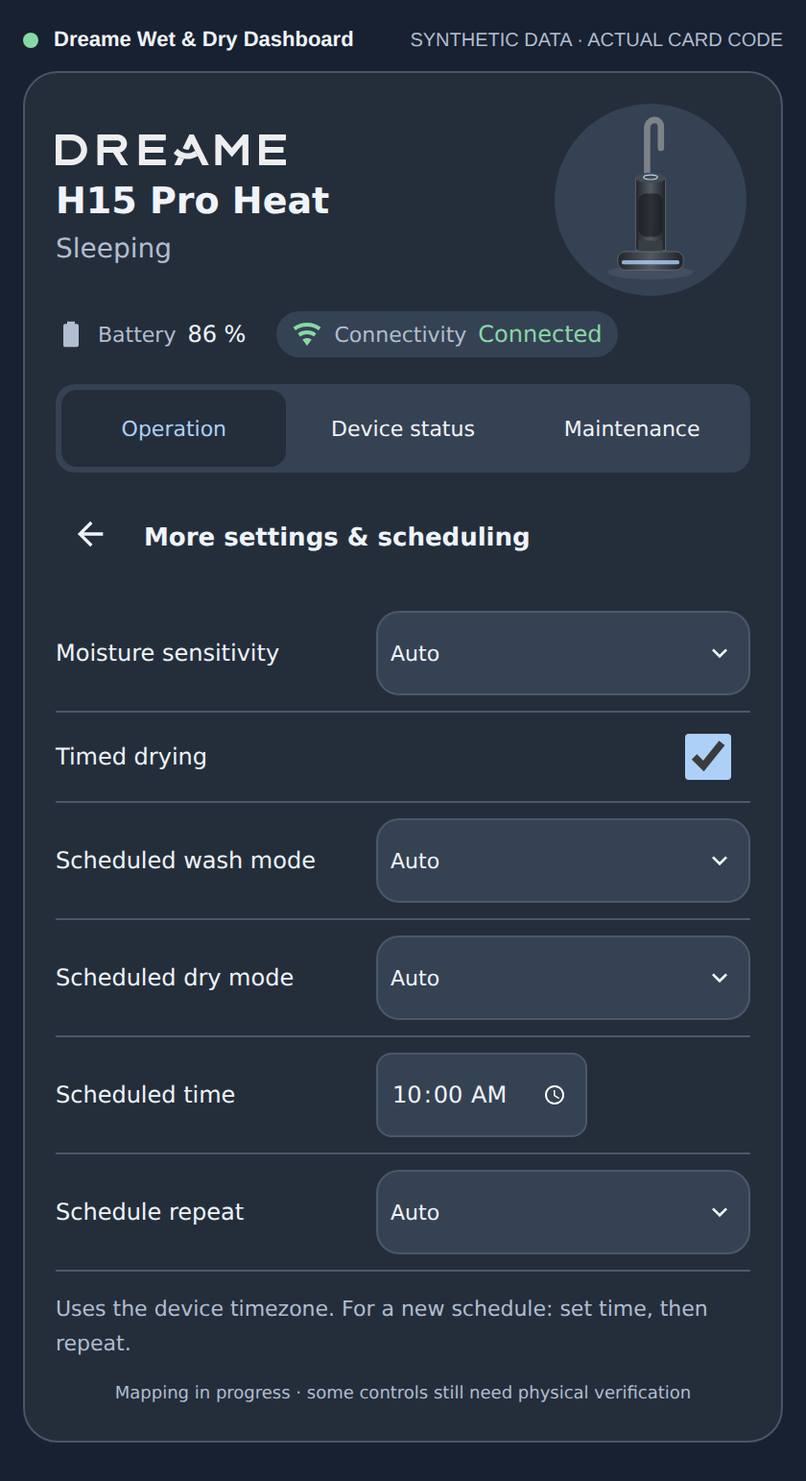
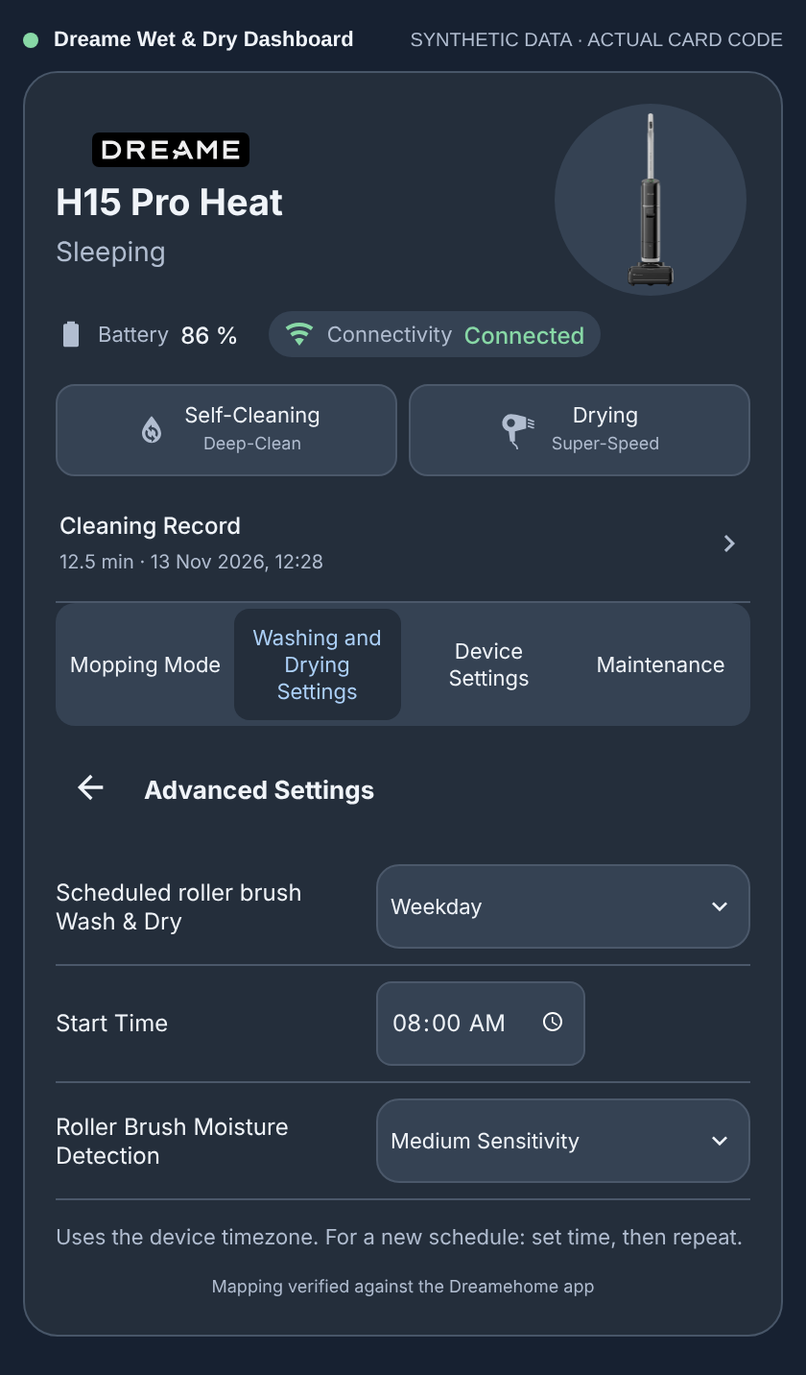
v1.1.0: H15 tabs and names match the Dreamehome app
- Tabs: Mopping Mode, Washing and Drying Settings, Device Settings, Maintenance
- Self-Cleaning/Drying buttons and Cleaning Record above the tabs (app main screen)
- Labels and options from the Dreamehome w2449e plugin strings (en/he)
- Cleaning Record page and Firmware Upgrade row
- Fix schedule Start Time unit (seconds) and voice volume levels (0/30/60)
- Re-render README gallery

Claude-Session: https://claude.ai/code/session_012MEnnaMZZDVA9ScWyo1GUo

diff --git a/dist/dreame-device-card.js b/dist/dreame-device-card.js
@@ -41,6 +41,9 @@ const ROLES = {
   stop_clean: ["button", "h15_command_stop_self_clean"], start_dry: ["button", "h15_command_start_self_dry"],
   stop_dry: ["button", "h15_command_stop_self_dry"], reset_filter: ["button", "h15_command_reset_filter"],
   reset_brush: ["button", "h15_command_reset_front_brush"],
+  clean_today: ["sensor", "h15_clean_time_today"], clean_week: ["sensor", "h15_clean_time_week"],
+  clean_sessions: ["sensor", "h15_clean_sessions_week"], last_clean: ["sensor", "h15_last_session"],
+  firmware: ["update", "h15_firmware"],
 };
 const TEXT = {
   he: {
@@ -50,7 +53,7 @@ const TEXT = {
     hot_water: "חימום מים", wash_mode: "מצב ניקוי עצמי", dry_mode: "מצב ייבוש", volume: "עוצמת קול",
     silent: "שקט", low: "נמוך", high: "גבוה", custom: "ניקוי מותאם אישית", auto_wash: "ניקוי וייבוש בחזרה למעמד",
     auto_dry: "ייבוש מברשת אוטומטי", smart_dry: "ייבוש חכם", protection: "הגנה מפני לחות", timed_dry: "ייבוש מתוזמן",
-    traction: "הנעה", detergent: "ערבוב חומר ניקוי", moisture: "רגישות לחות", arm: "מצבי הזרוע", language: "שפת קול",
+    traction: "הנעה", detergent: "יחס חומר ניקוי", moisture: "רגישות לחות", arm: "מצבי הזרוע", language: "שפת קול",
     temperature: "טמפרטורת ברירת מחדל", return_wash: "ניקוי בחזרה למעמד", return_dry: "ייבוש בחזרה למעמד",
     scheduled_wash: "ניקוי מתוזמן", scheduled_dry: "ייבוש מתוזמן", repeat: "חזרה על תזמון", schedule_time: "שעת תזמון",
     start_clean: "ניקוי עצמי", resume_clean: "המשך ניקוי", stop_clean: "עצירת ניקוי", start_dry: "הפעלת ייבוש", stop_dry: "עצירת ייבוש",
@@ -62,7 +65,10 @@ const TEXT = {
     alert_unknown: "חלק מחיוויי ההתראות אינם זמינים; אין להסיק שהמכשיר ללא תקלות.",
     remaining: "נותרו", reset_confirm: "לאפס את מונה התחזוקה במכשיר? יש לאשר רק אחרי החלפה או תחזוקה לפי הוראות היצרן.",
     cancel: "ביטול", confirm: "אישור איפוס", waiting: "הפקודה נשלחה; ממתינים לדיווח המכשיר.",
-    wip: "מיפוי בפיתוח · חלק מהאפשרויות עדיין דורשות אימות במכשיר", empty: "אין נתונים זמינים להצגה בקבוצה זו.",
+    wip: "המיפוי אומת מול אפליקציית Dreamehome",
+    tab_home: "בית", tab_cleaning: "ניקוי", tab_device: "מכשיר", tab_record: "היסטוריה", tab_accessories: "אביזרים",
+    sec_mode: "מצב ניקוי", dirt_level: "רמת לכלוך היום", dirt_light: "קל", dirt_moderate: "בינוני", dirt_heavy: "כבד",
+    cleaning_record: "היסטוריית ניקוי", clean_today: "זמן ניקוי היום", clean_week: "זמן ניקוי (7 ימים)", clean_sessions: "ניקויים (7 ימים)", last_clean: "ניקוי אחרון", firmware: "קושחה", update_available: "עדכון זמין", empty: "אין נתונים זמינים להצגה בקבוצה זו.",
     setup: "לא נמצא מכשיר יחיד התואם לסוג שנבחר. יש להגדיר device_id או entity בכרטיס.",
     registry_error: "אין גישה לרשימת הישויות. אפשר להגדיר entities ידנית או לנסות שוב.", retry: "נסה שוב",
     offline: "המכשיר אינו מדווח כמחובר; פקדי התפעול מושבתים.", loading: "טוען את המכשיר…", error: "הפעולה נכשלה",
@@ -89,7 +95,7 @@ const TEXT = {
     hot_water: "Hot water", wash_mode: "Self-cleaning mode", dry_mode: "Drying mode", volume: "Voice volume",
     silent: "Silent", low: "Low", high: "High", custom: "Personalized cleaning", auto_wash: "Wash & dry on return",
     auto_dry: "Auto roller drying", smart_dry: "Smart drying", protection: "Moisture protection", timed_dry: "Timed drying",
-    traction: "Traction", detergent: "Detergent mixing", moisture: "Moisture sensitivity", arm: "Lifting arm modes", language: "Voice language",
+    traction: "Traction", detergent: "Cleaning solution ratio", moisture: "Moisture sensitivity", arm: "Lifting arm modes", language: "Voice language",
     temperature: "Default temperature", return_wash: "Return wash mode", return_dry: "Return dry mode",
     scheduled_wash: "Scheduled wash mode", scheduled_dry: "Scheduled dry mode", repeat: "Schedule repeat", schedule_time: "Scheduled time",
     start_clean: "Self-clean", resume_clean: "Resume cleaning", stop_clean: "Stop cleaning", start_dry: "Start drying", stop_dry: "Stop drying",
@@ -101,7 +107,10 @@ const TEXT = {
     alert_unknown: "Some alert states are unavailable; this does not prove the device is fault-free.",
     remaining: "remaining", reset_confirm: "Reset this maintenance counter on the device? Confirm only after replacement or manufacturer-recommended maintenance.",
     cancel: "Cancel", confirm: "Confirm reset", waiting: "Command sent; waiting for device telemetry.",
-    wip: "Mapping in progress · some controls still need physical verification", empty: "No data available for this section.",
+    wip: "Mapping verified against the Dreamehome app",
+    tab_home: "Home", tab_cleaning: "Cleaning", tab_device: "Device", tab_record: "Record", tab_accessories: "Accessories",
+    sec_mode: "Cleaning mode", dirt_level: "Dirt level today", dirt_light: "Light", dirt_moderate: "Moderate", dirt_heavy: "Heavy",
+    cleaning_record: "Cleaning record", clean_today: "Cleaning time today", clean_week: "Cleaning time (7 days)", clean_sessions: "Sessions (7 days)", last_clean: "Last cleaning", firmware: "Firmware", update_available: "update available", empty: "No data available for this section.",
     setup: "No single H15 found. Set device_id or entity in this card.",
     registry_error: "Cannot access the entity registry. Configure entities manually or retry.", retry: "Retry",
     offline: "Device is not reporting online; operation controls are disabled.", loading: "Loading device…", error: "Action failed",
@@ -121,6 +130,53 @@ const TEXT = {
     maintenance_required: "Maintenance required — clean or replace", maintenance_counter_ok: "Remaining life above maintenance threshold",
     maintenance_percent_unknown: "No verified remaining percentage", maintenance_hours_unknown: "Percentage unavailable; showing time reported by the device", maintenance_due: "Maintenance required",
   },
+};
+
+// Names below are copied from the Dreamehome w2449e plugin string tables (en/he)
+// so the card reads exactly like the app.
+Object.assign(TEXT.en, {
+  tab_mop: "Mopping Mode", tab_washdry: "Washing and Drying Settings", tab_devset: "Device Settings",
+  custom: "Custom Mode", customize: "Customize Settings", mode: "Customize Settings", suction: "Suction Setting", water: "Water Level",
+  hot_water: "Hot Water Temperature", temperature: "Set Hot Water Mode",
+  auto_dry: "Auto Roller Brush Drying", smart_dry: "Smart Drying", wash_dry_mode: "Set Wash & Dry Mode",
+  wash_mode: "Self-Cleaning Settings", dry_mode: "Drying Settings", auto_wash: "Return to Automatic Wash & Dry",
+  protection: "Smart Moisture Protection", advanced: "Advanced Settings", repeat: "Scheduled roller brush Wash & Dry",
+  schedule_time: "Start Time", moisture: "Roller Brush Moisture Detection",
+  voice_settings: "Voice Assistant and Volume Settings", language: "Voice Assistant", volume: "Adjust volume",
+  traction: "GlideWheel Traction Settings", arm: "Lifting Robotic Arm Settings", detergent: "Cleaning Solution Ratio Settings",
+  firmware: "Firmware Upgrade", cleaning_record: "Cleaning Record",
+  start_clean: "Self-Cleaning", stop_clean: "End Self-Cleaning", resume_clean: "Continue Self-Cleaning",
+  start_dry: "Drying", stop_dry: "End Drying",
+  arm_smart: "Smart Mode", arm_hot: "Hot Water Mode", arm_suction: "Suction Mode", arm_custom: "Custom Mode",
+});
+Object.assign(TEXT.he, {
+  tab_mop: "מצב ניגוב", tab_washdry: "הגדרות שטיפה וייבוש", tab_devset: "הגדרות המכשיר",
+  custom: "מצב התאמה אישית", customize: "הגדרות מותאמות אישית", mode: "הגדרות מותאמות אישית", suction: "עוצמת שאיבה", water: "רמת המים",
+  hot_water: "טמפרטורת המים החמים", temperature: "הגדרת מצב מים חמים",
+  auto_dry: "ייבוש עצמי אוטומטי של המברשת", smart_dry: "ייבוש חכם", wash_dry_mode: "מצב שטיפה עצמית וייבוש",
+  wash_mode: "הגדרות לניקוי עצמי", dry_mode: "הגדרות ייבוש", auto_wash: "החזרה לשטיפה ולייבוש אוטומטיים",
+  protection: "הגנת לחות חכמה", advanced: "הגדרות מתקדמות", repeat: "מברשת רולר יבשה לשטיפה מתוזמנת",
+  schedule_time: "זמן התחלה", moisture: "זיהוי לחות במברשת הגלגלית",
+  voice_settings: "הנחיה קולית ועוצמת קול", language: "הנחיה קולית", volume: "התאמת עוצמת הקול",
+  traction: "התאמת כוח הנעה עצמית", arm: "מתג זרוע רובוטית להרמה", detergent: "הגדרות יחס תמיסת הניקוי",
+  firmware: "שדרוג הקושחה", cleaning_record: "היסטוריית הניקיון",
+  start_clean: "ניקוי עצמי", stop_clean: "ניקוי עצמי הסתיים", resume_clean: "מתליל מחדש ניקוי עצמי",
+  start_dry: "ייבוש", stop_dry: "הייבוש הסתיים",
+  arm_smart: "מצב חכם", arm_hot: "מצב מים חמים", arm_suction: "מצב יניקה", arm_custom: "מצב התאמה אישית",
+});
+const OPTION_HE = {
+  mode: { "Quiet Mode": "מצב שקט", "Turbo Mode": "מצב טורבו", "Personalized Mode": "מצב מותאם אישית" },
+  suction: { Gentle: "חלשה", Standard: "רגיל", Strong: "גבוהה" },
+  water: { Standard: "רגיל", High: "רטובה", "Slightly dry": "יבשה מעט" },
+  hot_water: { Off: "כבוי", Mild: "עדין", Standard: "רגיל", Thermal: "תרמי" },
+  temperature: { Mild: "עדין", Standard: "רגיל", Thermal: "תרמי" },
+  wash_mode: { "Auto-Adjust": "התאמה אוטומטית", Standard: "רגיל", "Deep-Clean": "ניקוי עמוק" },
+  dry_mode: { "Super-Speed": "מהירות סופר-גבוהה", "High-Speed": "מהירות גבוהה" },
+  traction: { Gentle: "עדין", Balanced: "מתון", Turbo: "טורבו" },
+  moisture: { "Low Sensitivity": "רגישות נמוכה", "Medium Sensitivity": "רגישות בינונית", "High Sensitivity": "רגישות גבוהה" },
+  repeat: { None: "ללא", Once: "פעם אחת", "Whole Week": "שבוע שלם", Weekday: "ימי עבודה", Weekends: "ימי מנוחה" },
+  detergent: { "Smart Mode": "פרופורציות חכמות", "Powerful stain removal": "מסיר כתמים עוצמתי" },
+  language: { English: "אנגלית", German: "גרמנית", French: "צרפתית", Italian: "איטלקית", Spanish: "ספרדית", Dutch: "הולנדית", Portuguese: "פורטוגזית" },
 };
 
 const H14_ROLES = {
@@ -228,7 +284,7 @@ function serviceFor(role, state, value, roles = ROLES) {
     const { min, max, step } = state.attributes;
     if (!Number.isFinite(number) || !Number.isFinite(min) || !Number.isFinite(max) || !(step > 0) ||
       number < min || number > max || Math.abs((number - min) / step - Math.round((number - min) / step)) > 1e-6 ||
-      (role === "volume" && roles === ROLES && ![0, 1, 2].includes(number))) throw new Error("Unsupported number value");
+      (role === "volume" && roles === ROLES && ![0, 30, 60].includes(number))) throw new Error("Unsupported number value");
     return [domain, "set_value", { value: number }];
   }
   throw new Error("Read-only entity");
@@ -250,7 +306,7 @@ class DreameDeviceCard extends HTMLElement {
   constructor() {
     super();
     this.attachShadow({ mode: "open" });
-    this._tab = "operation";
+    this._tab = "mop";
     this._roles = {};
     this._entries = [];
     this._alerts = [];
@@ -336,6 +392,7 @@ class DreameDeviceCard extends HTMLElement {
   static getStubConfig() { return { title: "Dreame H15 Pro Heat" }; }
   static getConfigElement() { return document.createElement("dreame-device-card-editor"); }
   _t(key) { return TEXT[this._language][key] || key; }
+  _opt(role, option) { return (this._language === "he" && OPTION_HE[role]?.[option]) || option; }
   get _language() { return this._config?.language || (this._hass?.language?.startsWith("he") ? "he" : "en"); }
   get _direction() { return this._language === "he" ? "rtl" : "ltr"; }
   _navIcon(back = false) {
@@ -374,7 +431,7 @@ class DreameDeviceCard extends HTMLElement {
   _contextReady(role) {
     if (this._profile !== "H15") return true;
     if (["mode", "suction", "water", "hot_water"].includes(role) && this._state("custom")?.state !== "on") return false;
-    if (["suction", "water"].includes(role) && this._state("mode")?.attributes.raw_value !== 4 && this._state("mode")?.state !== "Personalized") return false;
+    if (["suction", "water"].includes(role) && this._state("mode")?.attributes.raw_value !== 4 && !["Personalized", "Personalized Mode"].includes(this._state("mode")?.state)) return false;
     if (role === "suction" && this._state("hot_water")?.attributes.raw_value !== 0 && this._state("hot_water")?.state !== "Off") return false;
     return true;
   }
@@ -417,6 +474,8 @@ class DreameDeviceCard extends HTMLElement {
     if (!state || BAD_STATES.has(state.state)) return this._t(state?.state === "unavailable" ? "unavailable" : "unknown");
     if (role === "online") return this._t(state.state === "on" ? "connected" : state.state === "off" ? "disconnected" : "unknown");
     if (role === "charging") return this._t(state.state === "on" ? "yes" : "no");
+    if (this._roleMap?.[role]?.[0] === "select") return this._opt(role, state.state);
+    if (role === "firmware") return `${state.attributes.installed_version || ""}${state.state === "on" ? ` · ${this._t("update_available")} ${state.attributes.latest_version || ""}` : ""}`;
     if (this._hass.formatEntityState) return this._hass.formatEntityState(state);
     return `${state.state}${state.attributes.unit_of_measurement ? ` ${state.attributes.unit_of_measurement}` : ""}`;
   }
@@ -435,7 +494,7 @@ class DreameDeviceCard extends HTMLElement {
   }
   _control(role) {
     if (!this._roles[role] || !this._state(role) || !this._roleMap[role]) return "";
-    if (this._profile === "H15" && ["suction", "water"].includes(role) && this._state("mode")?.state !== "Personalized" && this._state("mode")?.attributes.raw_value !== 4) return "";
+    if (this._profile === "H15" && ["suction", "water"].includes(role) && !["Personalized", "Personalized Mode"].includes(this._state("mode")?.state) && this._state("mode")?.attributes.raw_value !== 4) return "";
     const state = this._state(role);
     const disabled = this._ready(role) ? "" : "disabled";
     let input = "";
@@ -447,13 +506,14 @@ class DreameDeviceCard extends HTMLElement {
       input = `<input aria-label="${label}" type="checkbox" role="switch" data-role="${role}" ${state.state === "on" ? "checked" : ""} ${disabled}>`;
       if (BAD_STATES.has(state.state)) input += `<small>${escapeHTML(this._value(role))}</small>`;
     } else if (role === "volume" && this._profile === "H15") {
-      const known = !BAD_STATES.has(state.state) && [0, 1, 2].includes(Number(state.state));
+      const level = [0, 30, 60].indexOf(Number(state.state));
+      const known = !BAD_STATES.has(state.state) && level >= 0;
       const levels = [this._t("silent"), this._t("low"), this._t("high")];
-      input = `<div class="volume" dir="${this._direction}"><input dir="${this._direction}" aria-label="${label}" aria-valuetext="${escapeHTML(known ? levels[Number(state.state)] : this._t("unknown"))}" type="range" min="0" max="2" step="1" data-role="volume" value="${known ? Number(state.state) : 0}" ${known ? disabled : "disabled"}>
-        <div class="levels">${levels.map((l, i) => `<span class="${known && Number(state.state) === i ? "selected" : ""}">${l}</span>`).join("")}</div>${known ? "" : `<small>${escapeHTML(this._value(role))}</small>`}</div>`;
+      input = `<div class="volume" dir="${this._direction}"><input dir="${this._direction}" aria-label="${label}" aria-valuetext="${escapeHTML(known ? levels[level] : this._t("unknown"))}" type="range" min="0" max="2" step="1" data-role="volume" value="${known ? level : 0}" ${known ? disabled : "disabled"}>
+        <div class="levels">${levels.map((l, i) => `<span class="${known && level === i ? "selected" : ""}">${l}</span>`).join("")}</div>${known ? "" : `<small>${escapeHTML(this._value(role))}</small>`}</div>`;
     } else if (role === "schedule_time") {
       const raw = Number(state.state);
-      const time = !BAD_STATES.has(state.state) && Number.isInteger(raw) && raw >= 0 && raw < 1440 ? `${String(Math.floor(raw / 60)).padStart(2, "0")}:${String(raw % 60).padStart(2, "0")}` : "";
+      const time = !BAD_STATES.has(state.state) && Number.isInteger(raw) && raw >= 0 && raw < 86400 ? `${String(Math.floor(raw / 3600)).padStart(2, "0")}:${String(Math.floor(raw / 60) % 60).padStart(2, "0")}` : "";
       input = `<input aria-label="${label}" type="time" step="60" data-role="${role}" value="${time}" ${disabled}>`;
     }
     if (!input && this._roleMap[role][0] === "number") {
@@ -569,29 +629,49 @@ class DreameDeviceCard extends HTMLElement {
     if (!due.length) return "";
     return `<button class="maintenance-notice" data-tab="maintenance"><ha-icon icon="mdi:tools"></ha-icon><span>${this._t("maintenance_due")} — ${due.map((r) => this._t(r)).join(" · ")}</span><ha-icon icon="${this._navIcon()}"></ha-icon></button>`;
   }
+  _home() {
+    const active = ["clean_progress", "dry_progress"].filter((r) => { const v = Number(this._state(r)?.state); return Number.isFinite(v) && v > 0; });
+    const record = ["clean_today", "clean_week", "clean_sessions", "last_clean"].some((r) => this._roles[r]);
+    return `<div class="actions">${this._button("start_clean", "mdi:water-sync")}${this._button("resume_clean", "mdi:play")}${this._button("stop_clean", "mdi:stop")}${this._button("start_dry", "mdi:hair-dryer")}${this._button("stop_dry", "mdi:stop")}</div>
+      ${active.length ? `<div class="metrics">${active.map((r) => this._metric(r, r === "clean_progress" ? "mdi:water-sync" : "mdi:hair-dryer")).join("")}</div>` : ""}
+      ${record ? `<button class="setting-group" data-group="record"><div><strong>${this._t("cleaning_record")}</strong><small>${escapeHTML(this._value("clean_today"))} · ${escapeHTML(this._value("last_clean"))}</small></div><ha-icon icon="${this._navIcon()}"></ha-icon></button>` : ""}`;
+  }
   _panel() {
-    if (this._tab === "operation") {
-      if (this._choice) {
-        const options = this._state(this._choice)?.attributes.options || [];
-        return `<div class="subheading"><button data-back aria-label="${this._t("back")}"><ha-icon icon="${this._navIcon(true)}"></ha-icon></button><strong>${escapeHTML(this._t(this._choice))}</strong></div>
-          <div class="choice-list">${options.map((option) => `<button data-option="${escapeHTML(option)}" aria-pressed="${option === this._draftOption}" ${this._ready(this._choice) ? "" : "disabled"}><span>${escapeHTML(option)}</span><ha-icon icon="${option === this._draftOption ? "mdi:check-circle" : "mdi:circle-outline"}"></ha-icon></button>`).join("")}</div>
-          <button class="save-choice" data-save-option ${this._ready(this._choice) && options.includes(this._draftOption) ? "" : "disabled"}>${this._t("save")}</button>`;
-      }
-      const groups = {
-        cleaning_settings: ["mode", "suction", "water", "hot_water", "detergent", "temperature"],
-        wash_settings: ["wash_mode", "dry_mode", "auto_dry", "smart_dry", "auto_wash", "return_wash", "return_dry", "protection"],
-        device_settings: ["traction", "arm", "arm_smart", "arm_hot", "arm_suction", "arm_custom", "volume", "language"],
-        advanced: ["moisture", "timed_dry", "scheduled_wash", "scheduled_dry", "schedule_time", "repeat"],
-      };
-      if (groups[this._settings]) {
-        const controls = groups[this._settings].map((role) => this._control(role)).join("");
-        return `<div class="subheading"><button data-back aria-label="${this._t("back")}"><ha-icon icon="${this._navIcon(true)}"></ha-icon></button><strong>${this._t(this._settings)}</strong></div>${controls || `<p class="muted">${this._t("empty")}</p>`}${this._settings === "advanced" ? `<p class="muted">${this._t("schedule_note")}</p>` : ""}`;
-      }
-      const row = (group, subtitle) => groups[group].some((r) => this._roles[r]) ? `<button class="setting-group" data-group="${group}"><div><strong>${this._t(group)}</strong><small>${escapeHTML(subtitle)}</small></div><ha-icon icon="${this._navIcon()}"></ha-icon></button>` : "";
-      return `<div class="actions">${this._button("start_clean", "mdi:water-sync")}${this._button("resume_clean", "mdi:play")}${this._button("stop_clean", "mdi:stop")}${this._button("start_dry", "mdi:hair-dryer")}${this._button("stop_dry", "mdi:stop")}</div>
-        ${this._control("custom")}${row("cleaning_settings", this._value("mode"))}${row("wash_settings", ["wash_mode", "dry_mode"].filter((r) => this._roles[r]).map((r) => this._value(r)).join(" · "))}${row("device_settings", `${this._t("traction")} · ${this._t("arm")} · ${this._t("volume")}`)}${row("advanced", this._t("schedule_note"))}`;
+    const back = (title) => `<div class="subheading"><button data-back aria-label="${this._t("back")}"><ha-icon icon="${this._navIcon(true)}"></ha-icon></button><strong>${escapeHTML(title)}</strong></div>`;
+    if (this._choice) {
+      const options = this._state(this._choice)?.attributes.options || [];
+      return `${back(this._t(this._choice))}
+        <div class="choice-list">${options.map((option) => `<button data-option="${escapeHTML(option)}" aria-pressed="${option === this._draftOption}" ${this._ready(this._choice) ? "" : "disabled"}><span>${escapeHTML(this._opt(this._choice, option))}</span><ha-icon icon="${option === this._draftOption ? "mdi:check-circle" : "mdi:circle-outline"}"></ha-icon></button>`).join("")}</div>
+        <button class="save-choice" data-save-option ${this._ready(this._choice) && options.includes(this._draftOption) ? "" : "disabled"}>${this._t("save")}</button>`;
     }
-    if (this._tab === "status") return `<div class="metrics">${this._metric("work", "mdi:state-machine")}${this._metric("charging", "mdi:battery-charging")}${this._metric("clean_progress", "mdi:water-sync")}${this._metric("dry_progress", "mdi:hair-dryer")}${this._metric("clean_count", "mdi:counter")}${this._metric("runtime", "mdi:timer-outline")}</div><h3>${this._t("alerts")}</h3>${this._alertList()}`;
+    const controls = (roles) => roles.map((role) => this._control(role)).join("");
+    const metrics = (items) => { const body = items.map(([role, icon]) => this._metric(role, icon)).join(""); return body ? `<div class="metrics">${body}</div>` : ""; };
+    const group = (key, roles, subtitle) => roles.some((r) => this._roles[r]) ? `<button class="setting-group" data-group="${key}"><div><strong>${this._t(key)}</strong><small>${escapeHTML(subtitle)}</small></div><ha-icon icon="${this._navIcon()}"></ha-icon></button>` : "";
+    const sub = {
+      customize: ["mode", "suction", "water", "hot_water"],
+      wash_dry_mode: ["wash_mode", "dry_mode"],
+      advanced: ["repeat", "schedule_time", "moisture"],
+      voice_settings: ["language", "volume"],
+    };
+    if (this._settings === "record") {
+      const dirt = this._state("clean_today");
+      const split = dirt && !BAD_STATES.has(dirt.state) ? ["light", "moderate", "heavy"].map((lvl) => `${this._t("dirt_" + lvl)} ${dirt.attributes[lvl + "_dirt_percent"] ?? 0}%`).join(" · ") : "";
+      return `${back(this._t("cleaning_record"))}${metrics([["clean_today", "mdi:timer-outline"], ["clean_week", "mdi:calendar-week"], ["clean_sessions", "mdi:counter"], ["last_clean", "mdi:history"], ["clean_count", "mdi:counter"]])}${split ? `<h3>${this._t("dirt_level")}</h3><p class="muted">${escapeHTML(split)}</p>` : ""}`;
+    }
+    if (sub[this._settings]) {
+      const body = controls(sub[this._settings]);
+      return `${back(this._t(this._settings))}${body || `<p class="muted">${this._t("empty")}</p>`}${this._settings === "advanced" ? `<p class="muted">${this._t("schedule_note")}</p>` : ""}`;
+    }
+    if (this._tab === "mop") {
+      const custom = this._state("custom")?.state === "on";
+      return `${controls(["custom"])}${group("customize", sub.customize, custom ? this._value("mode") : "")}${controls(["temperature"])}` || `<p class="muted">${this._t("empty")}</p>`;
+    }
+    if (this._tab === "washdry") {
+      return `${controls(["auto_dry", "smart_dry"])}${group("wash_dry_mode", sub.wash_dry_mode, ["wash_mode", "dry_mode"].filter((r) => this._roles[r]).map((r) => this._value(r)).join(" · "))}${controls(["auto_wash", "protection", ...(this._profile === "H14" ? ["timed_dry"] : [])])}${group("advanced", sub.advanced, this._value("repeat"))}`;
+    }
+    if (this._tab === "devset") {
+      return `${group("voice_settings", sub.voice_settings, this._value("language"))}${controls(["traction", "arm", "arm_smart", "arm_hot", "arm_suction", "arm_custom"])}${metrics([["firmware", "mdi:chip"]])}`;
+    }
     return `<h3>${this._t("tanks")}</h3>${this._tank("clean")}${this._tank("dirty")}${this._consumable("filter", "reset_filter")}${this._consumable("brush", "reset_brush")}<h3>${this._t("alerts")}</h3>${this._alertList()}`;
   }
   _render() {
@@ -615,7 +695,8 @@ class DreameDeviceCard extends HTMLElement {
       <div class="summary">${this._metric("battery", "mdi:battery")}${this._metric("online", "mdi:wifi")}</div>
       ${this._faultNotice()}
       ${this._maintenanceNotice()}
-      <nav role="tablist" aria-label="Dreame">${["operation", "status", "maintenance"].map((tab) => `<button role="tab" id="tab-${tab}" aria-controls="device-panel" aria-selected="${this._tab === tab}" data-tab="${tab}">${this._t(tab)}</button>`).join("")}</nav>
+      ${ready ? this._home() : ""}
+      <nav role="tablist" aria-label="Dreame">${["mop", "washdry", "devset", "maintenance"].map((tab) => `<button role="tab" id="tab-${tab}" aria-controls="device-panel" aria-selected="${this._tab === tab}" data-tab="${tab}">${this._t(tab === "maintenance" ? "maintenance" : "tab_" + tab)}</button>`).join("")}</nav>
       ${this._registryError ? `<p class="notice">${escapeHTML(this._registryError)} <button data-retry>${this._t("retry")}</button></p>` : ""}
       ${!ready ? `<p class="notice">${this._t(this._resolving ? "loading" : "setup")} ${!this._resolving ? `<button data-retry>${this._t("retry")}</button>` : ""}</p>` : ""}
       ${ready && !this._online() ? `<p class="notice">${this._t("offline")}</p>` : ""}
@@ -686,8 +767,9 @@ class DreameDeviceCard extends HTMLElement {
       if (!/^\d{2}:\d{2}$/.test(value)) return;
       const [hours, minutes] = value.split(":").map(Number);
       if (hours > 23 || minutes > 59) return;
-      value = hours * 60 + minutes;
+      value = hours * 3600 + minutes * 60;
     }
+    if (role === "volume" && this._profile === "H15") value = [0, 30, 60][Number(value)] ?? value;
     target.blur();
     this._act(role, value);
   }
@@ -857,10 +939,10 @@ class DreameDeviceCardEditor extends HTMLElement {
     const devices = (this._devices || []).filter((d) => profile === "auto" ? deviceProfile(d, this._entries) : deviceProfile(d, this._entries) === profile);
     const profilePicker = `<label>${this._t("device_type")}<select data-field="model">${["H15", "H14", "auto"].map((p) => `<option value="${p}" ${p === profile ? "selected" : ""}>${p === "auto" ? this._t("automatic") : p}</option>`).join("")}</select></label><label>${this._t("device")}<select data-field="device_id"><option value="">${this._t("automatic")}</option>${devices.map((d) => `<option value="${escapeHTML(d.id)}" ${d.id === this._config.device_id ? "selected" : ""}>${escapeHTML(d.name_by_user || d.name || d.model)}</option>`).join("")}</select></label><small>${this._t("profile_note")}</small>`;
     const groups = {
-      status: ["vacuum", "battery", "work", "online", "charging", "clean_progress", "dry_progress", "clean_count", "runtime"],
+      status: ["vacuum", "battery", "work", "online", "charging", "clean_progress", "dry_progress", "clean_count", "runtime", "clean_today", "clean_week", "clean_sessions", "last_clean", "firmware"],
       tanks: ["clean_empty", "clean_empty_error", "dirty_full", "dirty_missing", "dirty_cleaning", "dirty_blocked", "warnings", "errors"],
       maintenance: ["filter", "brush", "filter_worn", "brush_worn", "reset_filter", "reset_brush"],
-      operation: Object.keys(ROLES).filter((r) => !["vacuum", "battery", "work", "online", "charging", "clean_progress", "dry_progress", "clean_count", "runtime", "clean_empty", "clean_empty_error", "dirty_full", "dirty_missing", "dirty_cleaning", "dirty_blocked", "warnings", "errors", "filter", "brush", "filter_worn", "brush_worn", "reset_filter", "reset_brush"].includes(r)),
+      operation: Object.keys(ROLES).filter((r) => !["vacuum", "battery", "work", "online", "charging", "clean_progress", "dry_progress", "clean_count", "runtime", "clean_today", "clean_week", "clean_sessions", "last_clean", "firmware", "clean_empty", "clean_empty_error", "dirty_full", "dirty_missing", "dirty_cleaning", "dirty_blocked", "warnings", "errors", "filter", "brush", "filter_worn", "brush_worn", "reset_filter", "reset_brush"].includes(r)),
     };
     const html = `<style>:host{display:block;color:var(--primary-text-color);font:inherit}label{display:grid;gap:6px;font-size:13px;margin:12px 0}input,select{font:inherit;color:inherit;background:var(--secondary-background-color);border:1px solid var(--divider-color);border-radius:8px;padding:10px;box-sizing:border-box;width:100%;min-height:44px}small{display:block;color:var(--secondary-text-color);line-height:1.5}details{border-top:1px solid var(--divider-color);margin-top:14px}summary{padding:14px 0;cursor:pointer}h3{font-size:15px}</style>
       <div dir="${(lang || this._hass?.language || "en").startsWith("he") ? "rtl" : "ltr"}">

diff --git a/tests/preview.html b/tests/preview.html
@@ -18,19 +18,20 @@ const p=new URLSearchParams(location.search),model=p.get('model')==='H14'?'H14':
 document.body.classList.toggle('dark',dark);
 const device={id:'demo',name:'Dreame '+(model==='H14'?'H14 Dual':'H15 Pro Heat'),model:model==='H14'?'dreame.hold.w2306e':'dreame.hold.w2449e',identifiers:[['dreame_wet_dry_vacuum','demo-cloud']]};
 const roles=model==='H14'?H14_ROLES:ROLES;
-const presets={battery:'86',work:'Sleeping',online:'on',charging:'off',clean_progress:'0',dry_progress:'0',clean_count:'27',runtime:'15',filter:'73',brush:'64',custom:'on',mode:'Personalized',suction:'Gentle',water:'Standard',hot_water:'Off',wash_mode:'Standard',dry_mode:'Quiet',volume:'1',schedule_time:'600',dirty_tank_status:'normal',warnings:'0',errors:'0',traction:'Auto',language:'English',arm:'Smart'};
+const presets={battery:'86',work:'Sleeping',online:'on',charging:'off',clean_progress:'0',dry_progress:'0',clean_count:'27',runtime:'15',filter:'73',brush:'64',custom:'on',mode:'Personalized Mode',suction:'Gentle',water:'Standard',hot_water:'Mild',temperature:'Mild',wash_mode:'Deep-Clean',dry_mode:'Super-Speed',volume:model==='H15'?'30':'1',schedule_time:model==='H15'?'28800':'600',repeat:'Weekday',moisture:'Medium Sensitivity',dirty_tank_status:'normal',warnings:'0',errors:'0',traction:'Balanced',language:'English',arm:'Smart',detergent:'Smart Mode',clean_today:'12.5',clean_week:'48',clean_sessions:'5',last_clean:'2026-11-13T10:28:59+00:00',firmware:'off',resume_clean:'unavailable',stop_clean:'unavailable',stop_dry:'unavailable'};
+const OPTIONS={mode:['Quiet Mode','Turbo Mode','Personalized Mode'],suction:['Gentle','Standard','Strong'],water:['Standard','High'],hot_water:['Off','Mild','Standard','Thermal'],temperature:['Mild','Standard','Thermal'],wash_mode:['Auto-Adjust','Standard','Deep-Clean'],dry_mode:['Super-Speed','High-Speed'],traction:['Gentle','Balanced','Turbo'],moisture:['Low Sensitivity','Medium Sensitivity','High Sensitivity'],repeat:['None','Once','Whole Week','Weekday','Weekends'],language:['English','German','French'],detergent:['Smart Mode','Powerful stain removal'],arm:['Smart']};
 const states={},entries=[];
 for(const [role,[domain,suffix]] of Object.entries(roles)){
  if(role==="vacuum")continue; // The wet/dry stick integration does not expose a vacuum entity.
- const entity_id=domain+'.demo_'+role,options=role==='mode'?['Personalized','Smart','Quiet']:role==='hot_water'?['Off','On']:['Off','Auto','Standard','Quiet','High','Low','Smart','Personalized','English','Hebrew'];
+ const entity_id=domain+'.demo_'+role,options=OPTIONS[role]||['Off','Auto','Standard','Quiet','High','Low','Smart','Personalized','English','Hebrew'];
  const value=presets[role] ?? (domain==='binary_sensor'?'off':domain==='switch'?'on':domain==='select'?'Auto':domain==='button'?'unknown':domain==='number'?'1':'0');
- const attributes={friendly_name:role,...(domain==='select'?{options}:{}),...(domain==='number'?{min:0,max:role==='schedule_time'?1439:role==='volume'?2:10,step:1}:{}),...(['battery','filter','brush','clean_progress','dry_progress'].includes(role)?{unit_of_measurement:'%'}:{}),...(['warnings','errors'].includes(role)?{raw_value:0}:{}),...(role==='work'&&model==='H15'?{raw_value:0}:{}),...(role==='mode'?{raw_value:4}:{}),...(role==='hot_water'?{raw_value:0}:{})};
+ const attributes={friendly_name:role,...(domain==='select'?{options}:{}),...(domain==='number'?{min:0,max:role==='schedule_time'?(model==='H15'?86340:1439):role==='volume'?(model==='H15'?60:2):10,step:role==='schedule_time'&&model==='H15'?60:role==='volume'&&model==='H15'?30:1}:{}),...(['battery','filter','brush','clean_progress','dry_progress'].includes(role)?{unit_of_measurement:'%'}:{}),...(['warnings','errors'].includes(role)?{raw_value:0}:{}),...(role==='work'&&model==='H15'?{raw_value:0}:{}),...(role==='mode'?{raw_value:4}:{}),...(role==='hot_water'?{raw_value:1}:{}),...(role==='clean_today'?{unit_of_measurement:'min',light_dirt_percent:70,moderate_dirt_percent:25,heavy_dirt_percent:5}:{}),...(role==='clean_week'?{unit_of_measurement:'min'}:{}),...(role==='clean_sessions'?{unit_of_measurement:'sessions'}:{}),...(role==='firmware'?{installed_version:'2.1.8_1047',latest_version:'2.1.8_1047'}:{})};
  states[entity_id]={entity_id,state:value,attributes};
  entries.push({device_id:'demo',platform:'dreame_wet_dry_vacuum',entity_id,unique_id:'demo-cloud_'+suffix});
 }
 window.__calls=[];
-const hass={states,language:lang,themes:{darkMode:dark},connection:{subscribeEvents:async()=>()=>{}},callWS:async msg=>msg.type==='config/device_registry/list'?[device]:msg.type==='config/entity_registry/list'?entries:[],callService:async(...args)=>window.__calls.push(args),formatEntityState:state=>state.state+(state.attributes?.unit_of_measurement?' '+state.attributes.unit_of_measurement:'')};
-const card=document.querySelector('#card');card.setConfig({model,language:lang,title:model==='H14'?'H14 Dual':'H15 Pro Heat'});card.hass=hass;
+const hass={states,language:lang,themes:{darkMode:dark},connection:{subscribeEvents:async()=>()=>{}},callWS:async msg=>msg.type==='config/device_registry/list'?[device]:msg.type==='config/entity_registry/list'?entries:[],callService:async(...args)=>window.__calls.push(args),formatEntityState:state=>/^\d{4}-\d\d-\d\dT/.test(state.state)?new Date(state.state).toLocaleString(lang==='he'?'he-IL':'en-GB',{dateStyle:'medium',timeStyle:'short',timeZone:'Asia/Jerusalem'}):state.state+(state.attributes?.unit_of_measurement?' '+state.attributes.unit_of_measurement:'')};
+const card=document.querySelector('#card');card.setConfig({model,language:lang,title:model==='H14'?'H14 Dual':'H15 Pro Heat',...(model==='H15'?{image:'/local/dreame/h15_pro_heat.png'}:{})});card.hass=hass;
 window.__demo={card,hass,device,entries,states,lang,model,dark};
 window.__ready=()=>card._resolved&&Boolean(card.shadowRoot?.querySelector('.metric-battery'))&&Boolean(card.shadowRoot?.querySelector('[role="tablist"]'));
 })();

diff --git a/README.md b/README.md
@@ -8,33 +8,37 @@ Home Assistant dashboard for Dreame Wet & Dry vacuum devices. Preview every scre
 
 These screenshots show the **current Dreame Device Card JavaScript**, rendered in Chromium using simulated Home Assistant entities. They are not older design mockups or photos of a connected personal device. Values shown are sample data. The complete dashboard, including Hebrew and theme variants, is documented below.
 
-### H15 Pro Heat — main screens
+### H15 Pro Heat — tabs (same order and names as the Dreamehome app)
 
-| Operation / תפעול | Device status / מצב המכשיר | Maintenance / תחזוקה |
+| Mopping Mode / מצב ניגוב | Washing and Drying Settings / הגדרות שטיפה וייבוש |
+| :---: | :---: |
+| ![Mopping Mode tab](https://raw.githubusercontent.com/matanmesika/dreame-device-card/main/docs/screenshots/mopping-mode.png) | ![Washing and Drying Settings tab](https://raw.githubusercontent.com/matanmesika/dreame-device-card/main/docs/screenshots/washing-drying-settings.png) |
+
+| Device Settings / הגדרות המכשיר | Maintenance / תחזוקה |
+| :---: | :---: |
+| ![Device Settings tab](https://raw.githubusercontent.com/matanmesika/dreame-device-card/main/docs/screenshots/device-settings.png) | ![Maintenance tab](https://raw.githubusercontent.com/matanmesika/dreame-device-card/main/docs/screenshots/maintenance.png) |
+
+### Pages inside the tabs
+
+| Customize Settings | Set Wash & Dry Mode | Advanced Settings |
 | :---: | :---: | :---: |
-| ![Operation tab — H15 Pro Heat](https://raw.githubusercontent.com/matanmesika/dreame-device-card/main/docs/screenshots/operation.png) | ![Device status tab — H15 Pro Heat](https://raw.githubusercontent.com/matanmesika/dreame-device-card/main/docs/screenshots/status.png) | ![Maintenance tab — H15 Pro Heat](https://raw.githubusercontent.com/matanmesika/dreame-device-card/main/docs/screenshots/maintenance.png) |
+| ![Customize Settings](https://raw.githubusercontent.com/matanmesika/dreame-device-card/main/docs/screenshots/customize-settings.png) | ![Set Wash & Dry Mode](https://raw.githubusercontent.com/matanmesika/dreame-device-card/main/docs/screenshots/wash-dry-mode.png) | ![Advanced Settings](https://raw.githubusercontent.com/matanmesika/dreame-device-card/main/docs/screenshots/advanced-settings.png) |
 
-### Detailed device controls
-
-| Cleaning settings | Wash & dry |
+| Voice Assistant and Volume Settings | Cleaning Record |
 | :---: | :---: |
-| ![Cleaning settings](https://raw.githubusercontent.com/matanmesika/dreame-device-card/main/docs/screenshots/cleaning-settings.png) | ![Wash and dry settings](https://raw.githubusercontent.com/matanmesika/dreame-device-card/main/docs/screenshots/wash-dry-settings.png) |
-
-| Device settings | Advanced settings and scheduling |
-| :---: | :---: |
-| ![Device settings](https://raw.githubusercontent.com/matanmesika/dreame-device-card/main/docs/screenshots/device-settings.png) | ![Advanced settings and scheduling](https://raw.githubusercontent.com/matanmesika/dreame-device-card/main/docs/screenshots/advanced-settings.png) |
+| ![Voice Assistant and Volume Settings](https://raw.githubusercontent.com/matanmesika/dreame-device-card/main/docs/screenshots/voice-settings.png) | ![Cleaning Record](https://raw.githubusercontent.com/matanmesika/dreame-device-card/main/docs/screenshots/cleaning-record.png) |
 
 ### Hebrew interface
 
-| תפעול | מצב המכשיר | תחזוקה |
+| מצב ניגוב | הגדרות שטיפה וייבוש | תחזוקה |
 | :---: | :---: | :---: |
-| ![Dreame operation in Hebrew](https://raw.githubusercontent.com/matanmesika/dreame-device-card/main/docs/screenshots/operation-he.png) | ![Dreame device status in Hebrew](https://raw.githubusercontent.com/matanmesika/dreame-device-card/main/docs/screenshots/status-he.png) | ![Dreame maintenance in Hebrew](https://raw.githubusercontent.com/matanmesika/dreame-device-card/main/docs/screenshots/maintenance-he.png) |
+| ![Mopping Mode in Hebrew](https://raw.githubusercontent.com/matanmesika/dreame-device-card/main/docs/screenshots/mopping-mode-he.png) | ![Washing and Drying Settings in Hebrew](https://raw.githubusercontent.com/matanmesika/dreame-device-card/main/docs/screenshots/washing-drying-settings-he.png) | ![Maintenance in Hebrew](https://raw.githubusercontent.com/matanmesika/dreame-device-card/main/docs/screenshots/maintenance-he.png) |
 
 ### Appearance and model compatibility
 
 | Light theme | H14 dashboard |
 | :---: | :---: |
-| ![Dreame dashboard light theme](https://raw.githubusercontent.com/matanmesika/dreame-device-card/main/docs/screenshots/operation-light.png) | ![Dreame H14 dashboard](https://raw.githubusercontent.com/matanmesika/dreame-device-card/main/docs/screenshots/operation-h14.png) |
+| ![Light theme](https://raw.githubusercontent.com/matanmesika/dreame-device-card/main/docs/screenshots/mopping-mode-light.png) | ![H14 dashboard](https://raw.githubusercontent.com/matanmesika/dreame-device-card/main/docs/screenshots/mopping-mode-h14.png) |
 
 **Gallery provenance:** Generated by [the browser capture tests](https://github.com/matanmesika/dreame-device-card/blob/main/tests/render_demo_gallery.cjs) using [the shipping card](https://github.com/matanmesika/dreame-device-card/blob/main/dist/dreame-device-card.js). Displayed features and values depend on the real device and available Home Assistant entities. No live hardware test is claimed.
 

diff --git a/docs/releases/v1.1.0.md b/docs/releases/v1.1.0.md
@@ -1,0 +1,19 @@
+## Dreame Wet & Dry Dashboard v1.1.0
+
+The H15 card now follows the Dreamehome app: same tabs, same order, same names (English and Hebrew).
+
+**Layout (like the app's main screen)**
+- Self-Cleaning / Drying buttons and a **Cleaning Record** entry above the tabs.
+- Tabs: **Mopping Mode** · **Washing and Drying Settings** · **Device Settings** · **Maintenance** (unchanged).
+- Pages: Customize Settings, Set Wash & Dry Mode, Advanced Settings, Voice Assistant and Volume Settings, Cleaning Record.
+- All labels and option names use the strings of the Dreamehome w2449e plugin, including the Hebrew translations.
+
+**New**
+- Cleaning Record: cleaning time today / 7 days, sessions, last cleaning, dirt-level split (needs integration sensors `h15_clean_time_*`, `h15_clean_sessions_week`, `h15_last_session`).
+- Firmware Upgrade row (update entity `h15_firmware`).
+
+**Fixes**
+- Start Time is sent in seconds after midnight (the app's unit). Before, 08:00 was stored as 00:08.
+- Voice volume uses the app levels 0 / 30 / 60, so the current level is shown instead of "Unknown".
+
+Settings the app hides for the H15 (Cleaning Solution Ratio, timed drying after cleaning, per-mode return/scheduled duplicates) are no longer shown on the card.

diff --git a/docs/info.md b/docs/info.md
@@ -2,4 +2,4 @@
 
 A theme-aware Home Assistant Lovelace card for supported Dreame wet & dry vacuums. Three tabs cover **Operation**, **Device status**, and **Maintenance**, using real Home Assistant entities only. English and Hebrew UI are available.
 
-**Available as a HACS Custom Dashboard repository (stable v1.0.1).** H15 Pro Heat mappings remain experimental; several commands and device alerts need physical verification. See the [README](../README.md) for installation, [current H15 card UI](CURRENT_UI.md), safeguards, and known limitations.
+**Available as a HACS Custom Dashboard repository (stable v1.1.0).** H15 Pro Heat mappings remain experimental; several commands and device alerts need physical verification. See the [README](../README.md) for installation, [current H15 card UI](CURRENT_UI.md), safeguards, and known limitations.

diff --git a/docs/CHANGELOG.md b/docs/CHANGELOG.md
@@ -1,5 +1,12 @@
 # Changelog
 
+## v1.1.0 — 2026-11-13
+
+- H15 tabs, order and names now match the Dreamehome app (Mopping Mode · Washing and Drying Settings · Device Settings · Maintenance), with the app's Hebrew strings.
+- Cleaning Record page and Firmware Upgrade row.
+- Fix: schedule Start Time in seconds; voice volume levels 0/30/60.
+- Gallery re-rendered for the new layout.
+
 ## v1.0.1 — 2026-11-12
 
 - HACS page: the official Dreame logo is now stored in the repository (`docs/brand/dreame-logo.svg`) on a light tile, so it stays readable in both light and dark Home Assistant themes. No card code changes.
